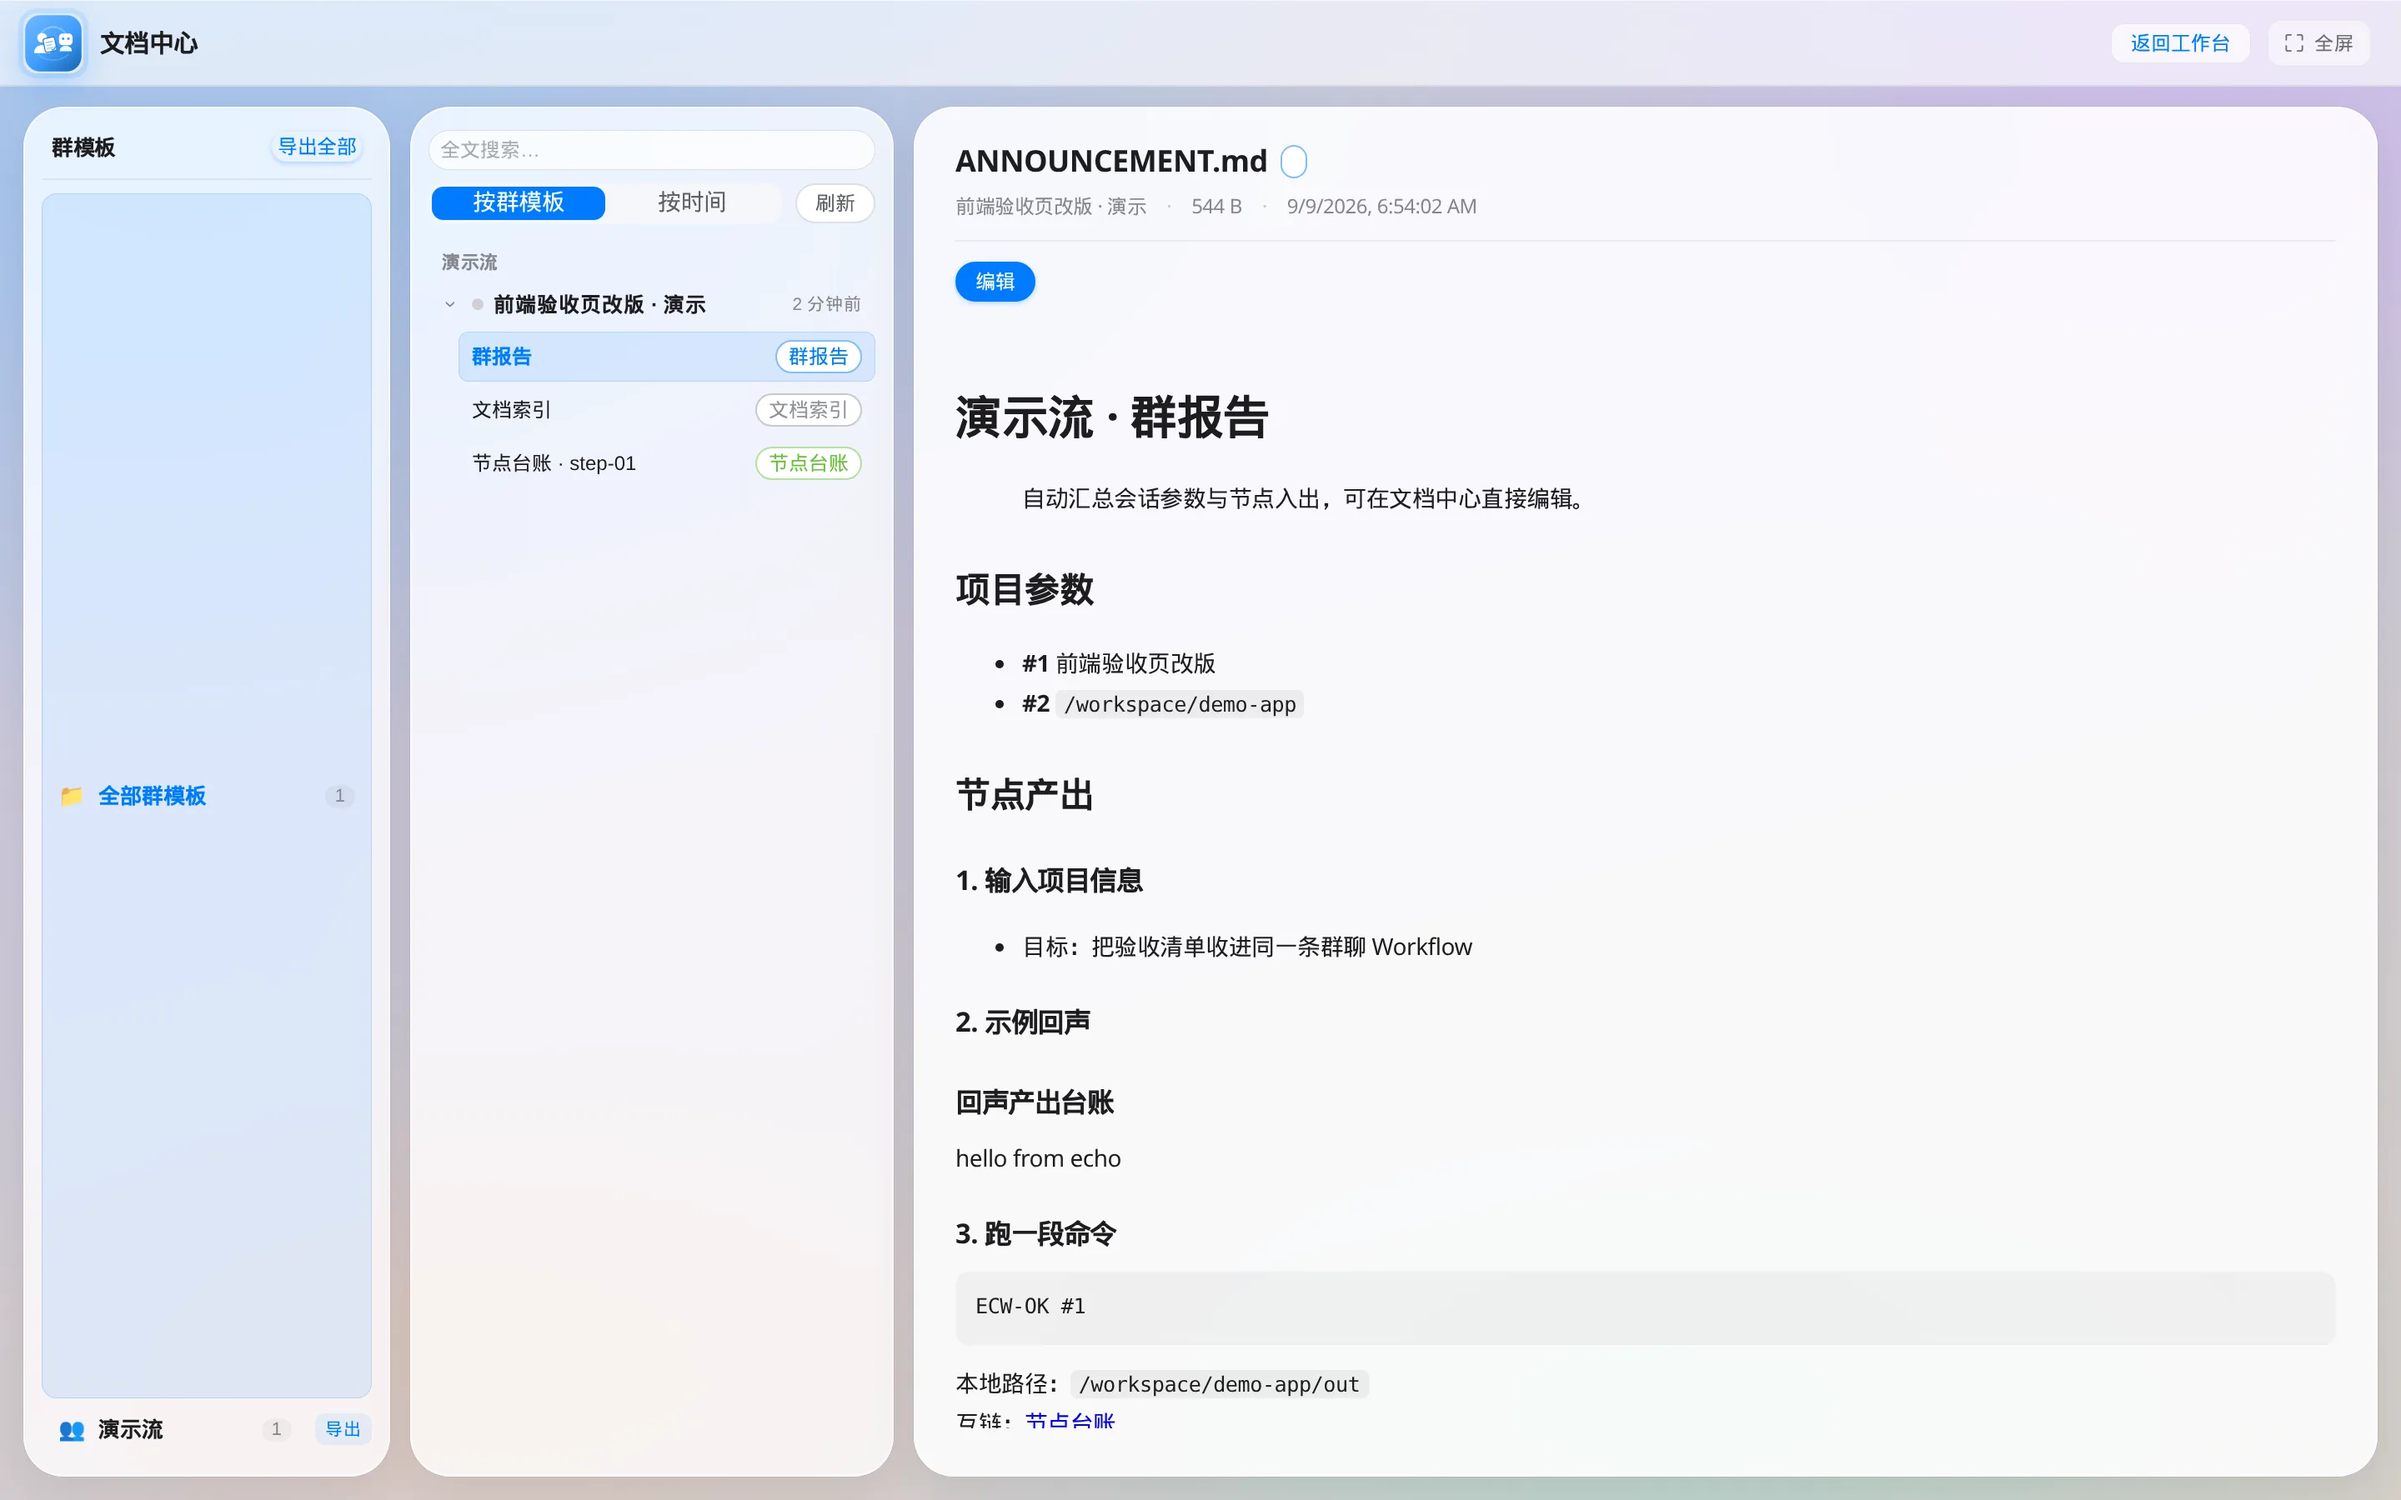
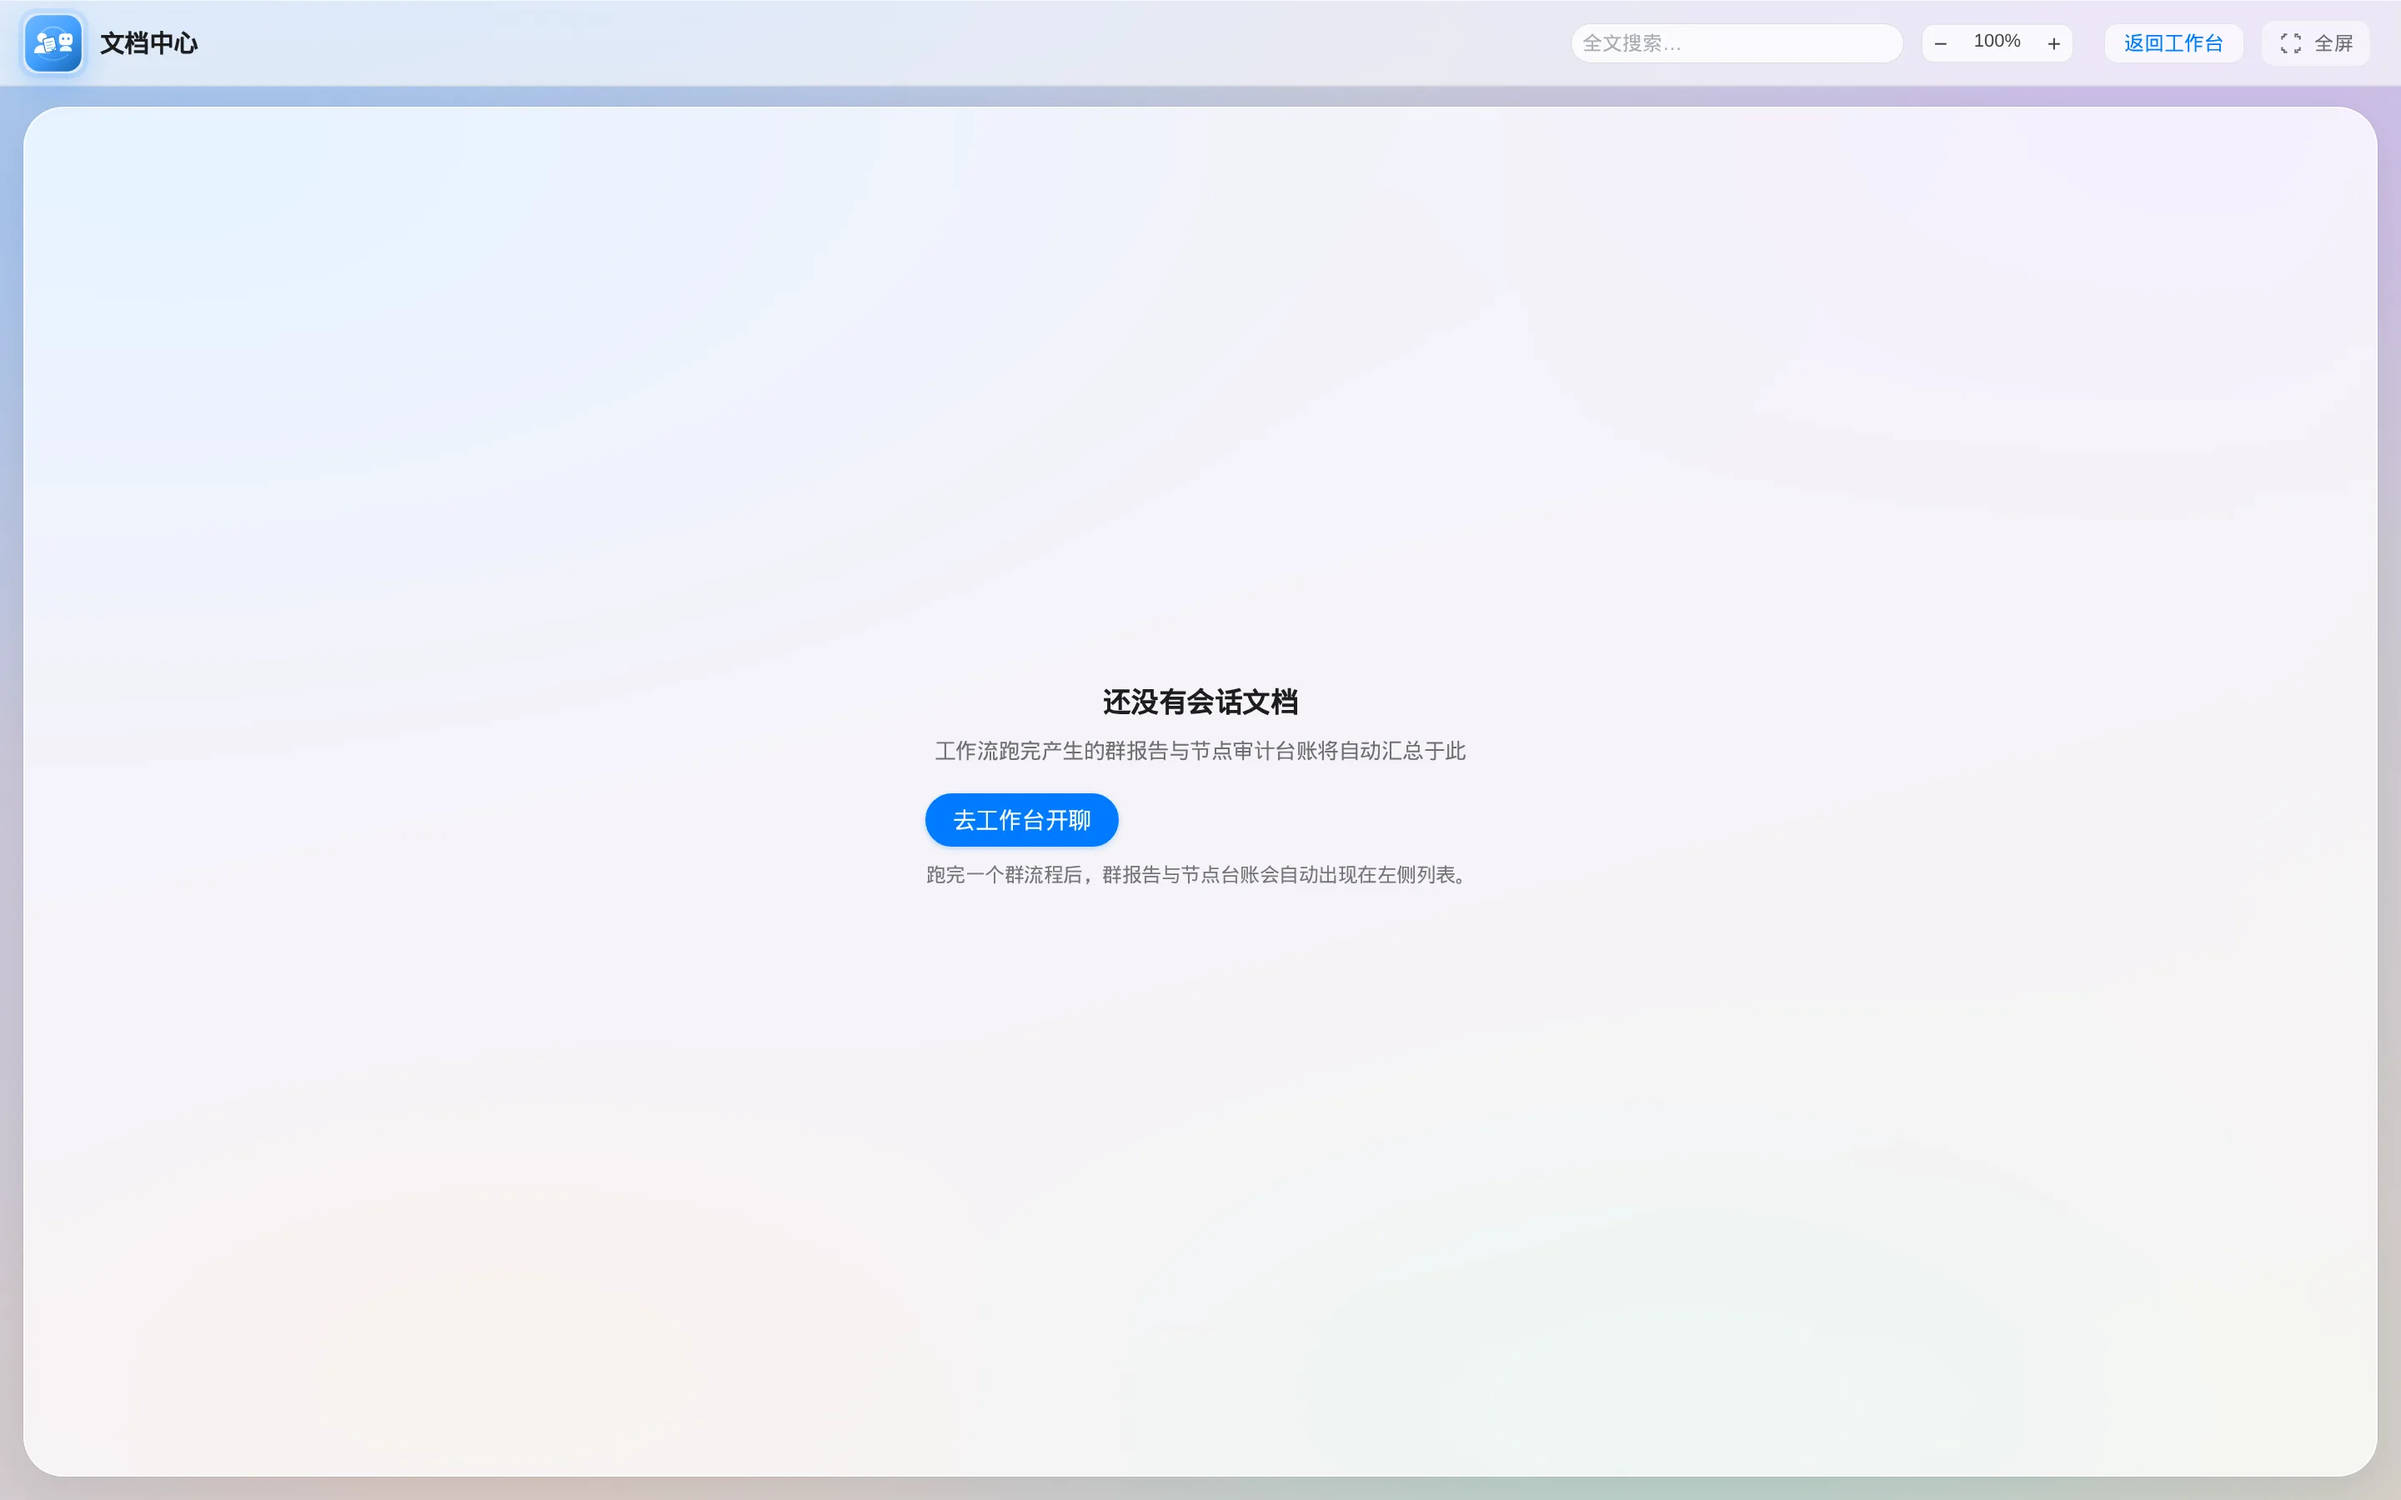
chore: selftest docs UI, refresh README screenshots, fix seed path
Update capture script for two-column docs hub and workbench header entry.
Refresh docs-hub*.webp, README copy, and rail-toolbar selftest for removed
embedded docs rail. Fix refine-verify probe path when seed runs in server workspace.

diff --git a/server/src/seed.js b/server/src/seed.js
@@ -4,7 +4,7 @@ import { initDb } from './db.js'
 import { createMember, createGroup, listMembers, listGroups } from './services.js'
 import { MEMBER_KIND } from '@acw/shared'
 
-const REFINE_PROBE_SRC = path.join(process.cwd(), 'server/test/fixtures/refine-verify-probe.mjs')
+const REFINE_PROBE_SRC = path.join(process.cwd(), 'test/fixtures/refine-verify-probe.mjs')
 const probeDir = path.join(process.cwd(), 'data', 'demo-fixtures')
 fs.mkdirSync(probeDir, { recursive: true })
 const REFINE_PROBE = path.join(probeDir, 'refine-verify-probe.mjs')

diff --git a/README.md b/README.md
@@ -137,18 +137,18 @@
 
 群报告、会话索引和节点台账都在 `data/journals/` 里。文档中心把它们聚成一个可搜、可编、可导出的页面，不用翻文件夹。
 
-<img src="./docs/assets/screenshots/docs-hub.webp" alt="协同文档中心：左群模板、中会话与文件、右 Markdown 正文（群报告可编辑）" width="100%" />
-<p align="center"><sub>独立页面 <code>/docs</code>：按群模板或时间浏览 · 全文搜索 · 公告可编辑 · 按群 / 全部导出 zip</sub></p>
+<img src="./docs/assets/screenshots/docs-hub.webp" alt="协同文档中心：左侧 VS Code 式资源管理器、右侧 Markdown 正文（群报告可编辑）" width="100%" />
+<p align="center"><sub>独立页面 <code>/docs</code>：左侧树形浏览（群模板 › 会话 › 文档）· 顶栏全文搜索 · 公告可编辑 · 按群 / 全部导出 zip</sub></p>
 
-<img src="./docs/assets/screenshots/docs-hub-rail.webp" alt="工作台第三栏文档中心：群报告、文档索引与节点台账预览" width="100%" />
-<p align="center"><sub>工作台右侧「文档中心」：群报告与台账同一栏，窄宽度横向排版、可折行</sub></p>
+<img src="./docs/assets/screenshots/docs-hub-rail.webp" alt="工作台：会话顶栏「文档中心」进入文档页；右侧仅流程与时间线" width="100%" />
+<p align="center"><sub>工作台不再内嵌文档预览；点会话顶栏「文档中心」跳转独立页（带当前会话上下文）</sub></p>
 
-- 左栏按群模板（或时间）分类，中栏会话文件树，右栏渲染 Markdown。
-- 工作台第三栏把原来的「群报告」并进「文档中心」，不再单独占一个 Tab。
+- 双栏：左栏资源管理器（按群模板树或按时间列表）+ 右栏 Markdown 渲染。
+- 工作台顶栏「文档中心」打开同一套文档页；右侧流程轨只保留流程与时间线。
 - 只有 `ANNOUNCEMENT.md` 可编辑；节点台账只读，避免改坏溯源。
 - 第三方 Agent 可用 `POST /api/docs/refine`（或成员页复制的 `agent-refine-skill` 指令）把输入 / diff / 结论追加进群报告。
 - 网页链接新标签打开；文档互链页内跳转；本地路径只开所在文件夹（不直接执行文件）。
-- 工作台第三栏同步预览同一套文档，导出走群模板 zip。
+- 导出走群模板 zip；全文搜索在文档中心顶栏。
 
 ## 已实现
 
@@ -162,8 +162,8 @@
 | 流程轨 | 当前节点、历史、克隆、跳过步骤折叠、从节点继续；适配角标 |
 | 场外协助 | `@成员` 临时插队，完成后回到主流程；折叠态直接标出实际用了哪个成员 |
 | 快捷输入 | `/` 指令、`@` 协助、`#` 会话参数与节点输出 |
-| 群报告 | 自动汇总参数、节点输入输出和人工备注，落地 Markdown；工作台并入文档中心 |
-| 文档中心 | 阅读样式参考飞书文档（正文大、标签小）；独立顶栏解耦只留 Logo；工作台第三栏内嵌文档中心（群报告 + 台账）；独立页面升级三栏分类布局；公告可编辑、全文搜索与按群导出 zip |
+| 群报告 | 自动汇总参数、节点输入输出和人工备注，落地 Markdown；在文档中心阅读与编辑 |
+| 文档中心 | 阅读样式参考飞书文档（正文大、标签小）；独立顶栏 + 左侧 VS Code 式资源管理器；工作台顶栏一键进入；公告可编辑、全文搜索与按群导出 zip |
 | 炼化 | 成员勾选后**保存当下**改源（`ACW-REFINE`）并 **pipe 试跑验证**（`verifyLast` / 抽屉「试跑验证」）；`acw-ctl verify-member`；适配 plan 预览；还原中心 diff/还原；开聊闸门 **下一步**（回车带参） |
 | 更新与备份 | 启动检查更新默认开（设置可关，只读版本号、不自动安装）；设置页提供**一键导入与一键导出**（导入备份包恢复数据，恢复前自动留快照可回退；导出为全量协同文档 ZIP）；备份/还原生产热路径全异步（integrity/checkpoint 走 worker）；关于页状态无缝联动 |
 | 会话治理 | 置顶、改名、删除（顶栏删除会从列表拿掉并清终端行）、续跑；群聊完成即归档；设置里释放资源、备份、配额与脱敏 |

diff --git a/CODE_CHANGE.md b/CODE_CHANGE.md
@@ -3,6 +3,7 @@
 > 文件级变更台账。每个文件的增、删、改、移动都追加一条记录。
 > 随仓库提交（不在 gitignore 中）。按日期降序，最新在最上面。
 
+2026-11-13 | M | README.md, docs/assets/screenshots/{docs-hub,docs-hub-rail}.webp, scripts/{capture-docs-screenshots,selftest-docs-rail-toolbar}.mjs, server/src/seed.js, web/test/docsRailLayout.test.mjs | 自测与 README 截图/文案；种子 probe 路径修正；顶栏文档入口自测改造
 2026-11-13 | A/M/D | web/src/views/docs/{DocsHub.vue,DocsHubSidebar.vue,docsHubSessionUi.js}, web/src/i18n/{zh-CN,en-US}.js, web/test/{docsHubLayout,docsHubSessionUi}.test.mjs; D DocsHubGroupsColumn.vue, DocsHubSessionsColumn.vue | 文档中心合并为 VS Code 式左侧资源管理器双栏布局
 2026-11-13 | M | web/src/views/{Workbench.vue,workbench/components/FlowRail.vue,FlowRailTabs.vue,workbench/composables/useTerminalSessions.js}, web/src/stores/flow.js, web/src/i18n/{zh-CN,en-US}.js, web/test/docsHubRail.test.mjs | 移除右侧栏文档中心 Tab；会话顶栏「文档中心」跳转完整文档中心页
 2026-11-12 | M | web/src/views/docs/{DocsHubGroupsColumn.vue,DocsHub.vue,DocsHubSessionsColumn.vue}, web/src/App.vue | 文档中心左栏移除「节点炼化与还原」入口（等高列表）；搜索框移至文档中心顶栏
